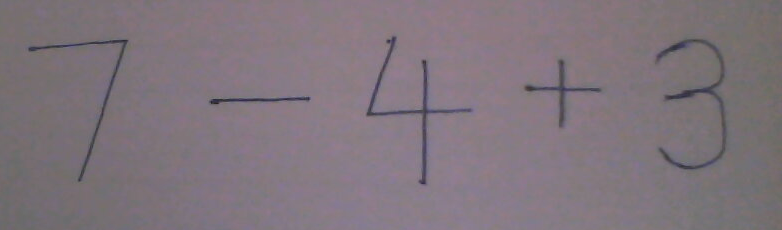
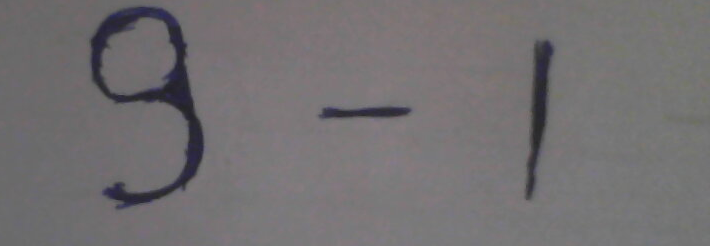
working for 9 - 1

diff --git a/main.py b/main.py
@@ -13,7 +13,6 @@ def preprocessRegion(img, y1, y2, x1, x2):
 
 def slidingWindow(img):
     height, width = img.shape
-    print(width)
     img2 = img.copy()
     regions = []
     x1, x2 = 30, 250
@@ -29,7 +28,7 @@ def slidingWindow(img):
     return regions
 
 
-img = cv2.imread('handwritten.png')
+img = cv2.imread('handwritten2.png')
 
 plt.imshow(img)
 plt.title("original image")
@@ -44,7 +43,7 @@ plt.show()
 
 # dilate the image
 kernel = np.ones((5, 5), np.uint8)
-img = cv2.dilate(img, kernel, iterations=10)
+img = cv2.dilate(img, kernel, iterations=8)
 plt.imshow(img, cmap = 'gray')
 plt.title("dilated image")
 plt.show()
